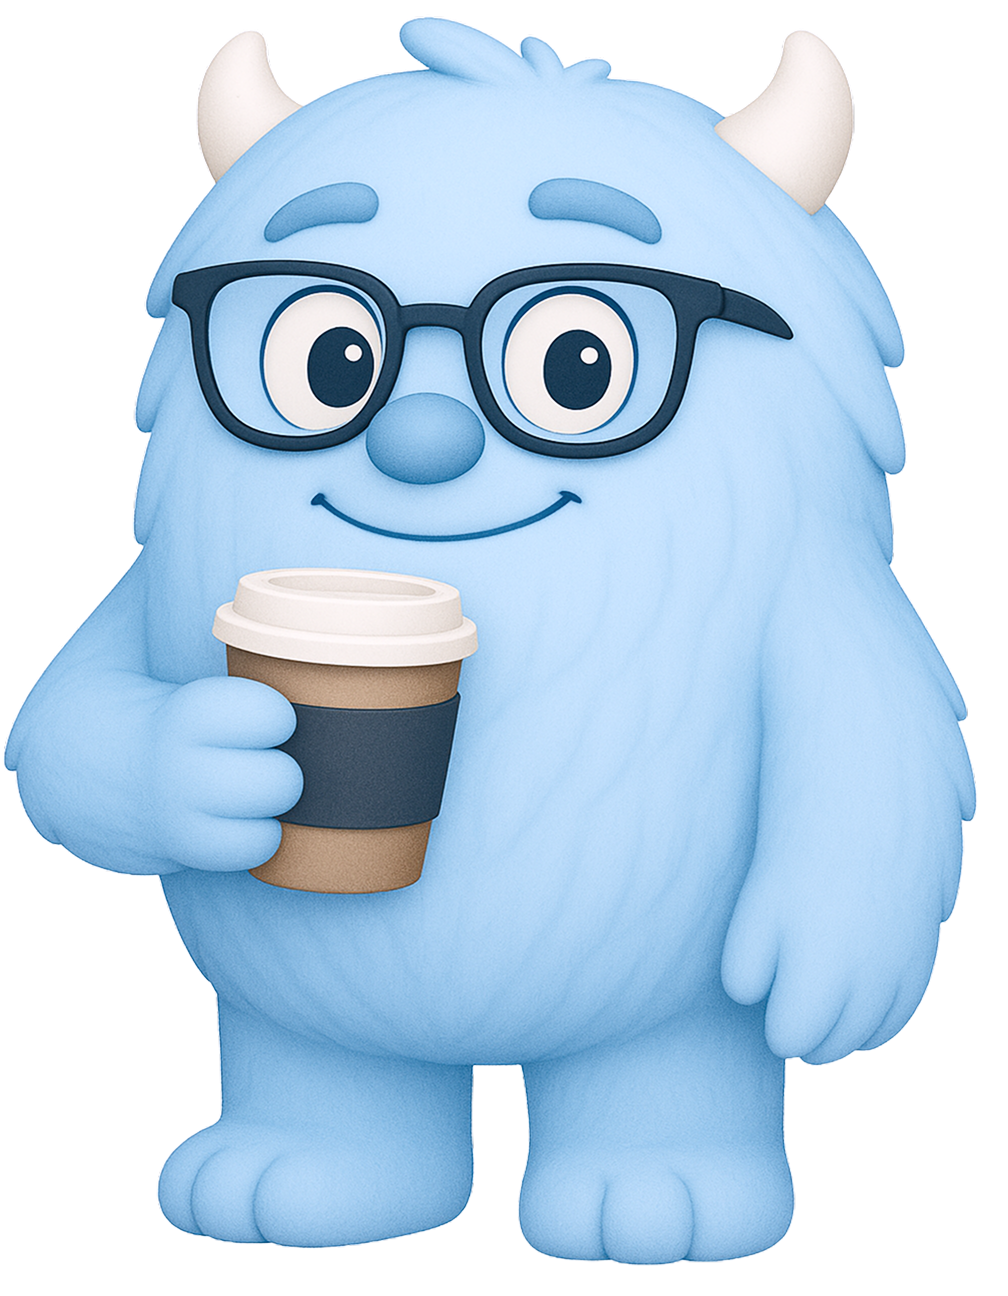
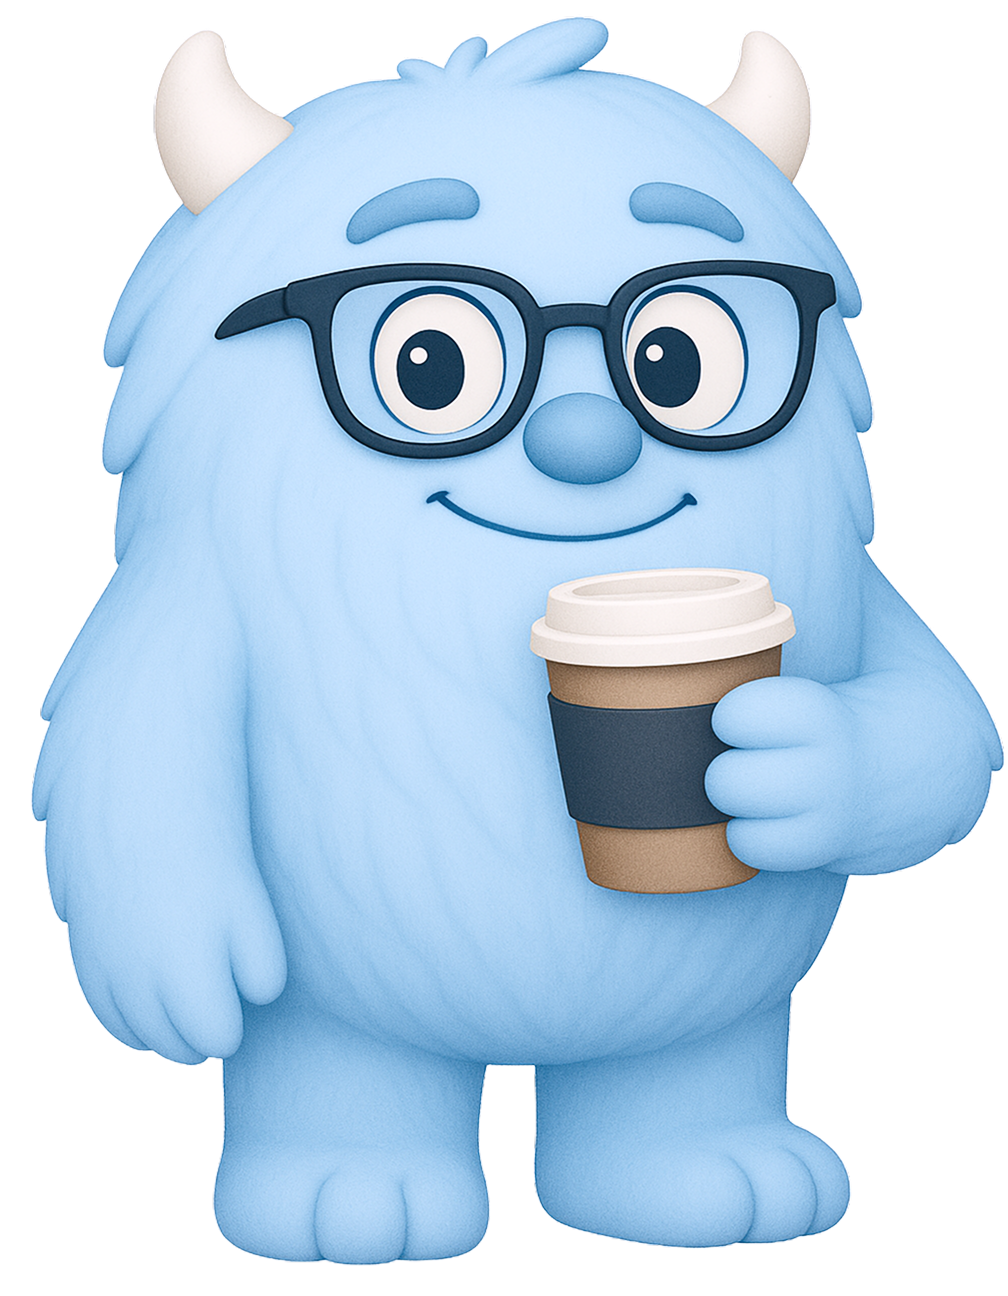
feat(mascot): Refactor wise theme and update combinations

diff --git a/constants/mascotGreetingKeys.ts b/constants/mascotGreetingKeys.ts
@@ -23,6 +23,28 @@ export const coolGreetingKeys: string[] = [
   "mascotGreetings.cool.sparkleUpgrade"
 ];
 
+export const wiseGreetingKeys: string[] = [
+  "mascotGreetings.wise.smallSteps",
+  "mascotGreetings.wise.dailyDiscipline",
+  "mascotGreetings.wise.foundationOfConfidence",
+  "mascotGreetings.wise.eachBrushMatters",
+  "mascotGreetings.wise.investInFuture",
+  "mascotGreetings.wise.quietProgress",
+  "mascotGreetings.wise.healthIsWealth",
+  "mascotGreetings.wise.showUpDaily",
+  "mascotGreetings.wise.patternsCreateDestiny",
+  "mascotGreetings.wise.strongRoots",
+  "mascotGreetings.wise.smallActOfMastery",
+  "mascotGreetings.wise.disciplineToday",
+  "mascotGreetings.wise.lastingResults",
+  "mascotGreetings.wise.precisionCreatesStrength",
+  "mascotGreetings.wise.habitsShapeYou",
+  "mascotGreetings.wise.disciplineSharpens",
+  "mascotGreetings.wise.neverWasteBrush",
+  "mascotGreetings.wise.controlWhatYouCan",
+  "mascotGreetings.wise.precisionMatters",
+  "mascotGreetings.wise.riseEveryDay"
+];
+
 // You can add other themed greeting key arrays here later, e.g.:
-// export const wiseGreetingKeys: string[] = [ ... ];
 // export const friendlyGreetingKeys: string[] = [ ... ]; 

diff --git a/constants/mascotThemes.ts b/constants/mascotThemes.ts
@@ -1,5 +1,5 @@
 import type { DynamicMascotTheme, MascotPositioning, PpMascotVariant, NonPpMascotVariant } from '../types/mascot';
-import { coolGreetingKeys } from './mascotGreetingKeys';
+import { coolGreetingKeys, wiseGreetingKeys } from './mascotGreetingKeys';
 // Potentially import getMascotPositioning if needed for more dynamic positioning within a theme, though not used in this example.
 // import { getMascotPositioning } from '../utils/mascotUtils';
 
@@ -19,6 +19,22 @@ export const dynamicMascotThemes: DynamicMascotTheme[] = [
     ],
     greetingTextKeys: coolGreetingKeys, // Using the imported array of 20 keys
     selectionWeight: 0.7, // Example weight: this theme is fairly likely to be picked if dynamic themes are chosen
+  },
+  {
+    themeId: 'wise',
+    profilePictureVariants: [
+      'nubo-wise-1-pp',
+      'nubo-wise-2-pp',
+      'nubo-wise-3-pp',
+    ],
+    poseVariants: [
+      'nubo-wise-1',
+      'nubo-wise-2',
+      'nubo-wise-3',
+      'nubo-wise-4',
+    ],
+    greetingTextKeys: wiseGreetingKeys,
+    selectionWeight: 0.3,
   },
   // Example of another theme (you can add more later)
   // {

diff --git a/src/types/mascot.ts b/src/types/mascot.ts
@@ -11,6 +11,13 @@ export type MascotVariant =
   | 'default-pose'
   | 'wise-pp'
   | 'wise-pose'
+  | 'nubo-wise-1'
+  | 'nubo-wise-2'
+  | 'nubo-wise-3'
+  | 'nubo-wise-4'
+  | 'nubo-wise-1-pp'
+  | 'nubo-wise-2-pp'
+  | 'nubo-wise-3-pp'
   | 'cool-pp'
   | 'cool-pose'
   | 'friendly-pp'
@@ -22,4 +29,25 @@ export interface MascotProfile {
   profilePictureVariant: MascotVariant; // Variant for the collapsed state
   poseVariant: MascotVariant;           // Variant for the expanded state
   greetings: string[];                  // Array of possible texts for this profile
-} 
+}
+
+export type PpMascotVariant = 
+  | 'nubo-wise-1-pp'
+  | 'nubo-wise-2-pp'
+  | 'nubo-wise-3-pp'
+  | 'nubo-welcoming-1-pp'
+  | 'nubo-brushing-1-pp'
+  | 'nubo-cool-3-pp'
+  | 'nubo-cool-1-pp'
+  | 'nubo-cool-2-pp';
+
+// Define your Non-PP (Expanded/Other) Mascot Variants here
+export type NonPpMascotVariant = 
+  | 'nubo-wise-1'
+  | 'nubo-wise-2'
+  | 'nubo-wise-3'
+  | 'nubo-wise-4'
+  | 'nubo-welcoming-1'
+  | 'nubo-welcoming-2'
+  | 'nubo-welcoming-wave'
+  | 'nubo-daily-brush' 

diff --git a/components/ui/Mascot.tsx b/components/ui/Mascot.tsx
@@ -38,8 +38,18 @@ export default function Mascot({
       // --- Wise Category ---
       case 'nubo-wise-1':
         return require('../../assets/mascot/nubo-wise-1.png');
+      case 'nubo-wise-2':
+        return require('../../assets/mascot/nubo-wise-2.png');
+      case 'nubo-wise-3':
+        return require('../../assets/mascot/nubo-wise-3.png');
+      case 'nubo-wise-4':
+        return require('../../assets/mascot/nubo-wise-4.png');
       case 'nubo-wise-1-pp':
         return require('../../assets/mascot/nubo-wise-1-pp.png');
+      case 'nubo-wise-2-pp':
+        return require('../../assets/mascot/nubo-wise-2-pp.png');
+      case 'nubo-wise-3-pp':
+        return require('../../assets/mascot/nubo-wise-3-pp.png');
       // case 'nubo-wise-book':
       //   return require('../../assets/mascot/nubo-wise-book.png');
       // case 'nubo-wise-book-pp':
